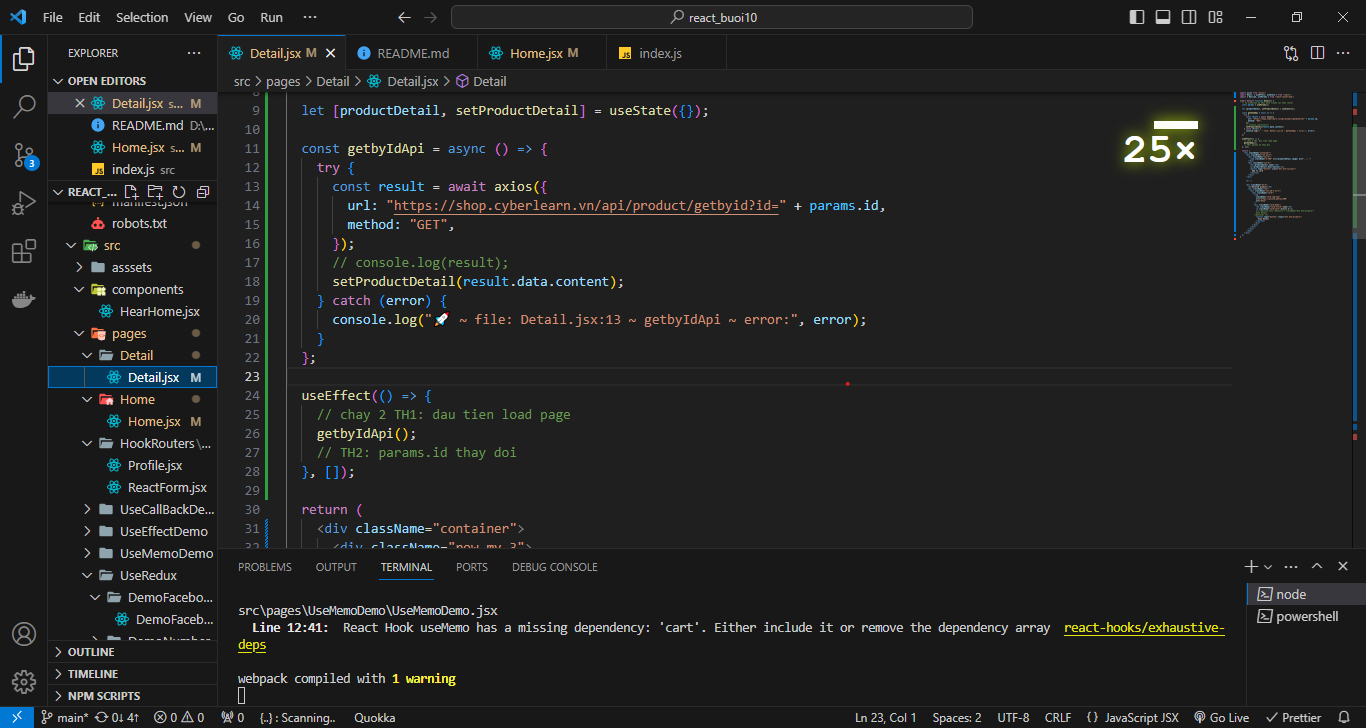
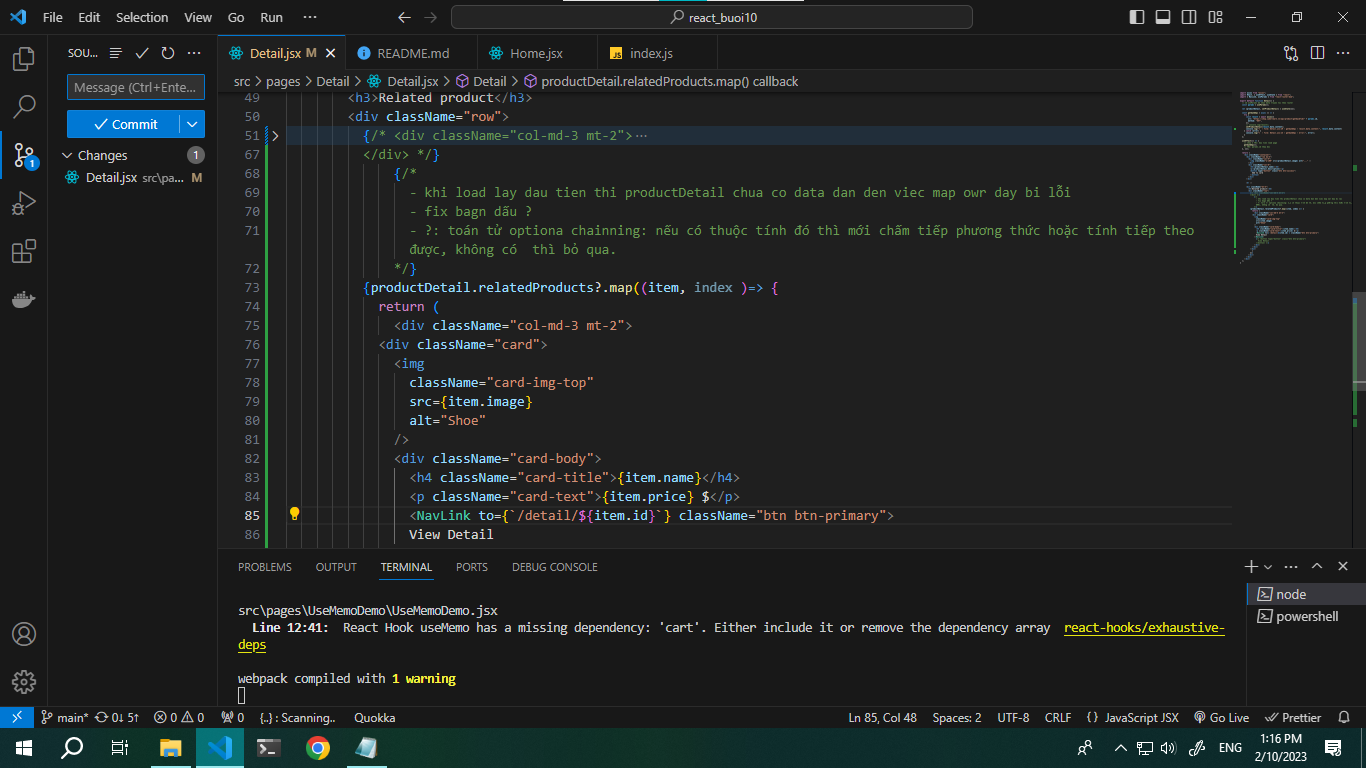
load cac product lieen quan, note toan tử ` ? `

diff --git a/react_buoi10/src/pages/Detail/Detail.jsx b/react_buoi10/src/pages/Detail/Detail.jsx
@@ -16,6 +16,7 @@ export default function Detail() {
       });
       // console.log(result);
       setProductDetail(result.data.content);
+      console.log("🚀 ~ file: Detail.jsx:19 ~ getbyIdApi ~ result.data.content:", result.data.content)
     } catch (error) {
       console.log("🚀 ~ file: Detail.jsx:13 ~ getbyIdApi ~ error:", error);
     }
@@ -47,7 +48,7 @@ export default function Detail() {
       <div className="mt-3">
         <h3>Related product</h3>
         <div className="row">
-          <div className="col-md-3 mt-2">
+          {/* <div className="col-md-3 mt-2">
             <div className="card">
               <img
                 className="card-img-top"
@@ -57,15 +58,41 @@ export default function Detail() {
               <div className="card-body">
                 <h4 className="card-title">name</h4>
                 <p className="card-text">preice $</p>
-                {/* <NavLink to={`/detail/1`} className="btn btn-primary">
-                View Detail
-              </NavLink> */}
+                
                 <button type="button" class="btn btn-primary">
                   View Detail
                 </button>
               </div>
             </div>
+          </div> */}
+              {/* 
+                - khi load lay dau tien thi productDetail chua co data dan den viec map owr day bi lỗi
+                - fix bagn dấu ? 
+                - ?: toán tử optiona chainning: nếu có thuộc tính đó thì mới chấm tiếp phương thức hoặc tính tiếp theo được, không có  thì bỏ qua.
+              */}
+          {productDetail.relatedProducts?.map((item, index )=> {
+            return (
+              <div className="col-md-3 mt-2">
+            <div className="card">
+              <img
+                className="card-img-top"
+                src={item.image}
+                alt="Shoe"
+              />
+              <div className="card-body">
+                <h4 className="card-title">{item.name}</h4>
+                <p className="card-text">{item.price} $</p>
+                <NavLink to={`/detail/${item.id}`} className="btn btn-primary">
+                View Detail
+              </NavLink>
+                {/* <button type="button" class="btn btn-primary">
+                  View Detail
+                </button> */}
+              </div>
+            </div>
           </div>
+            )
+          })}
         </div>
       </div>
     </div>
